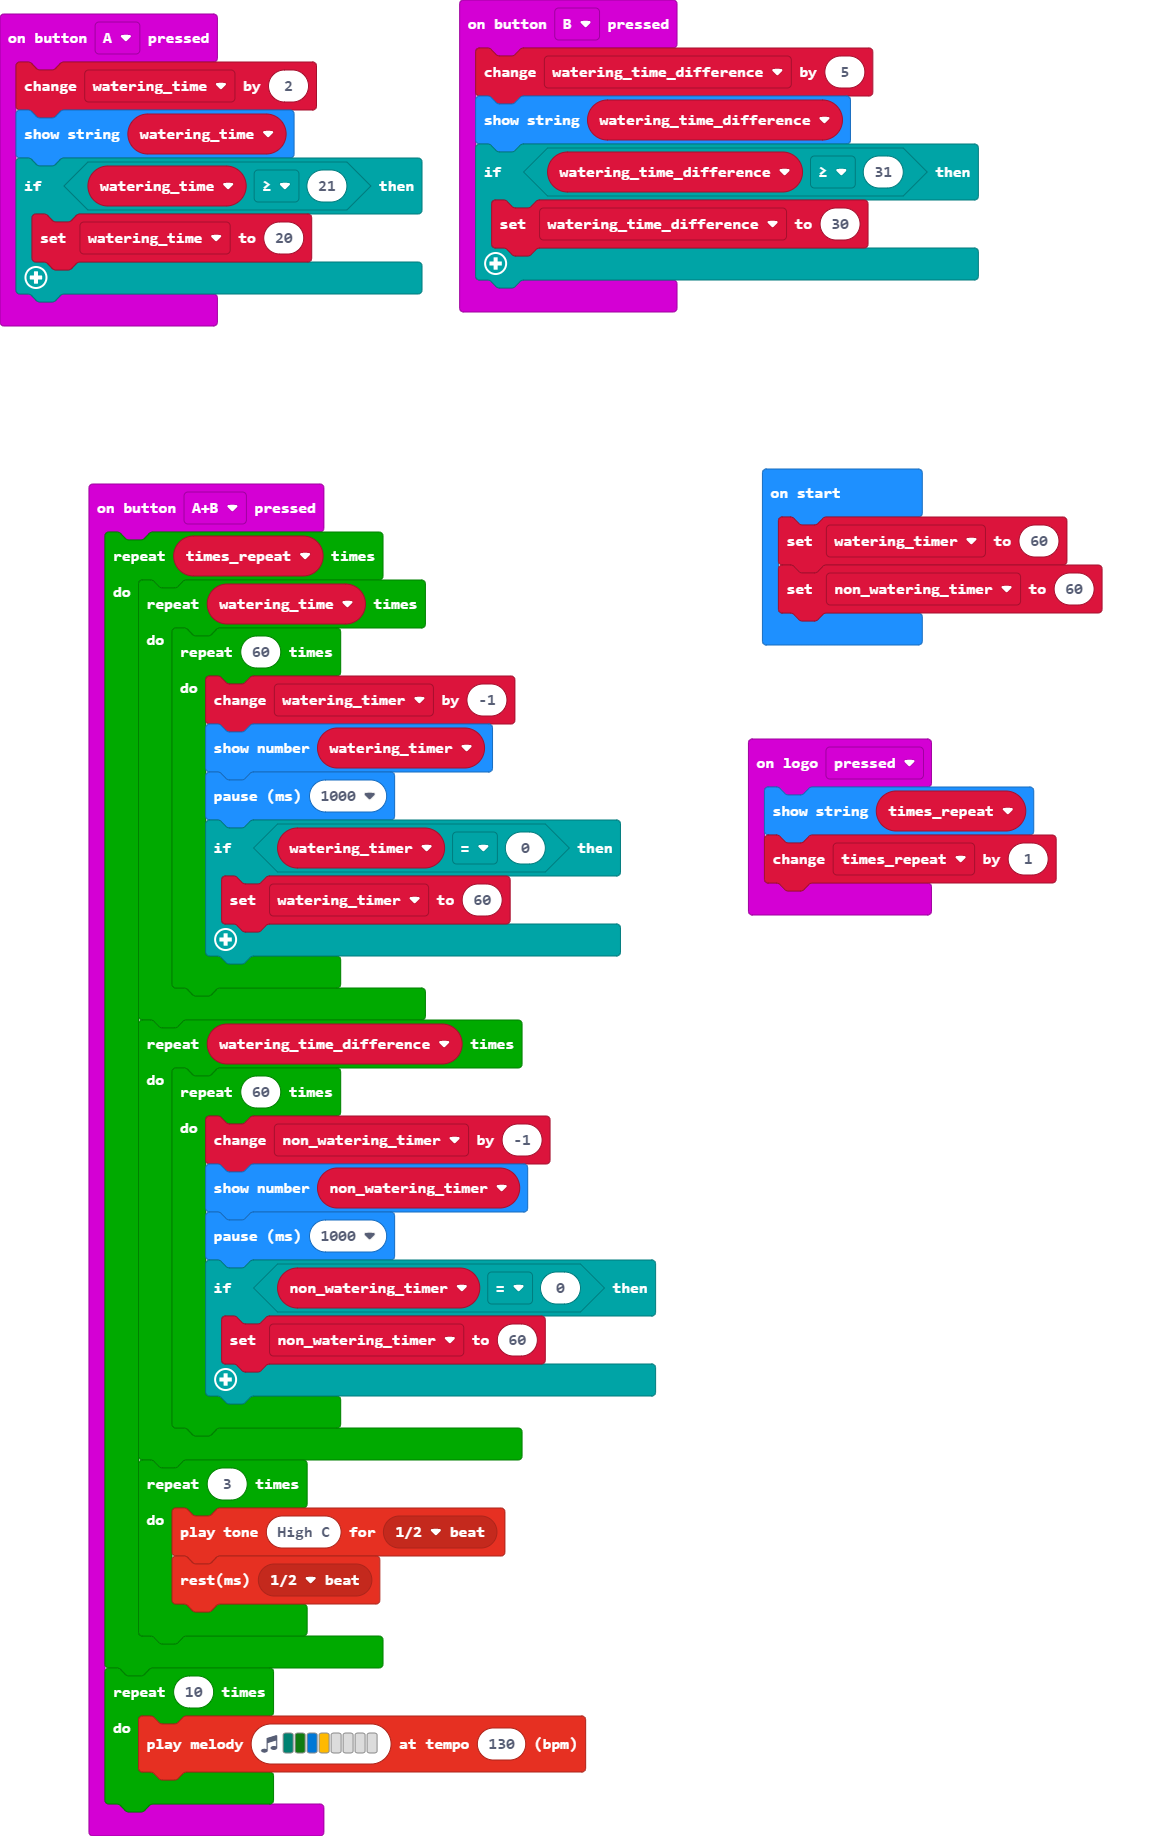
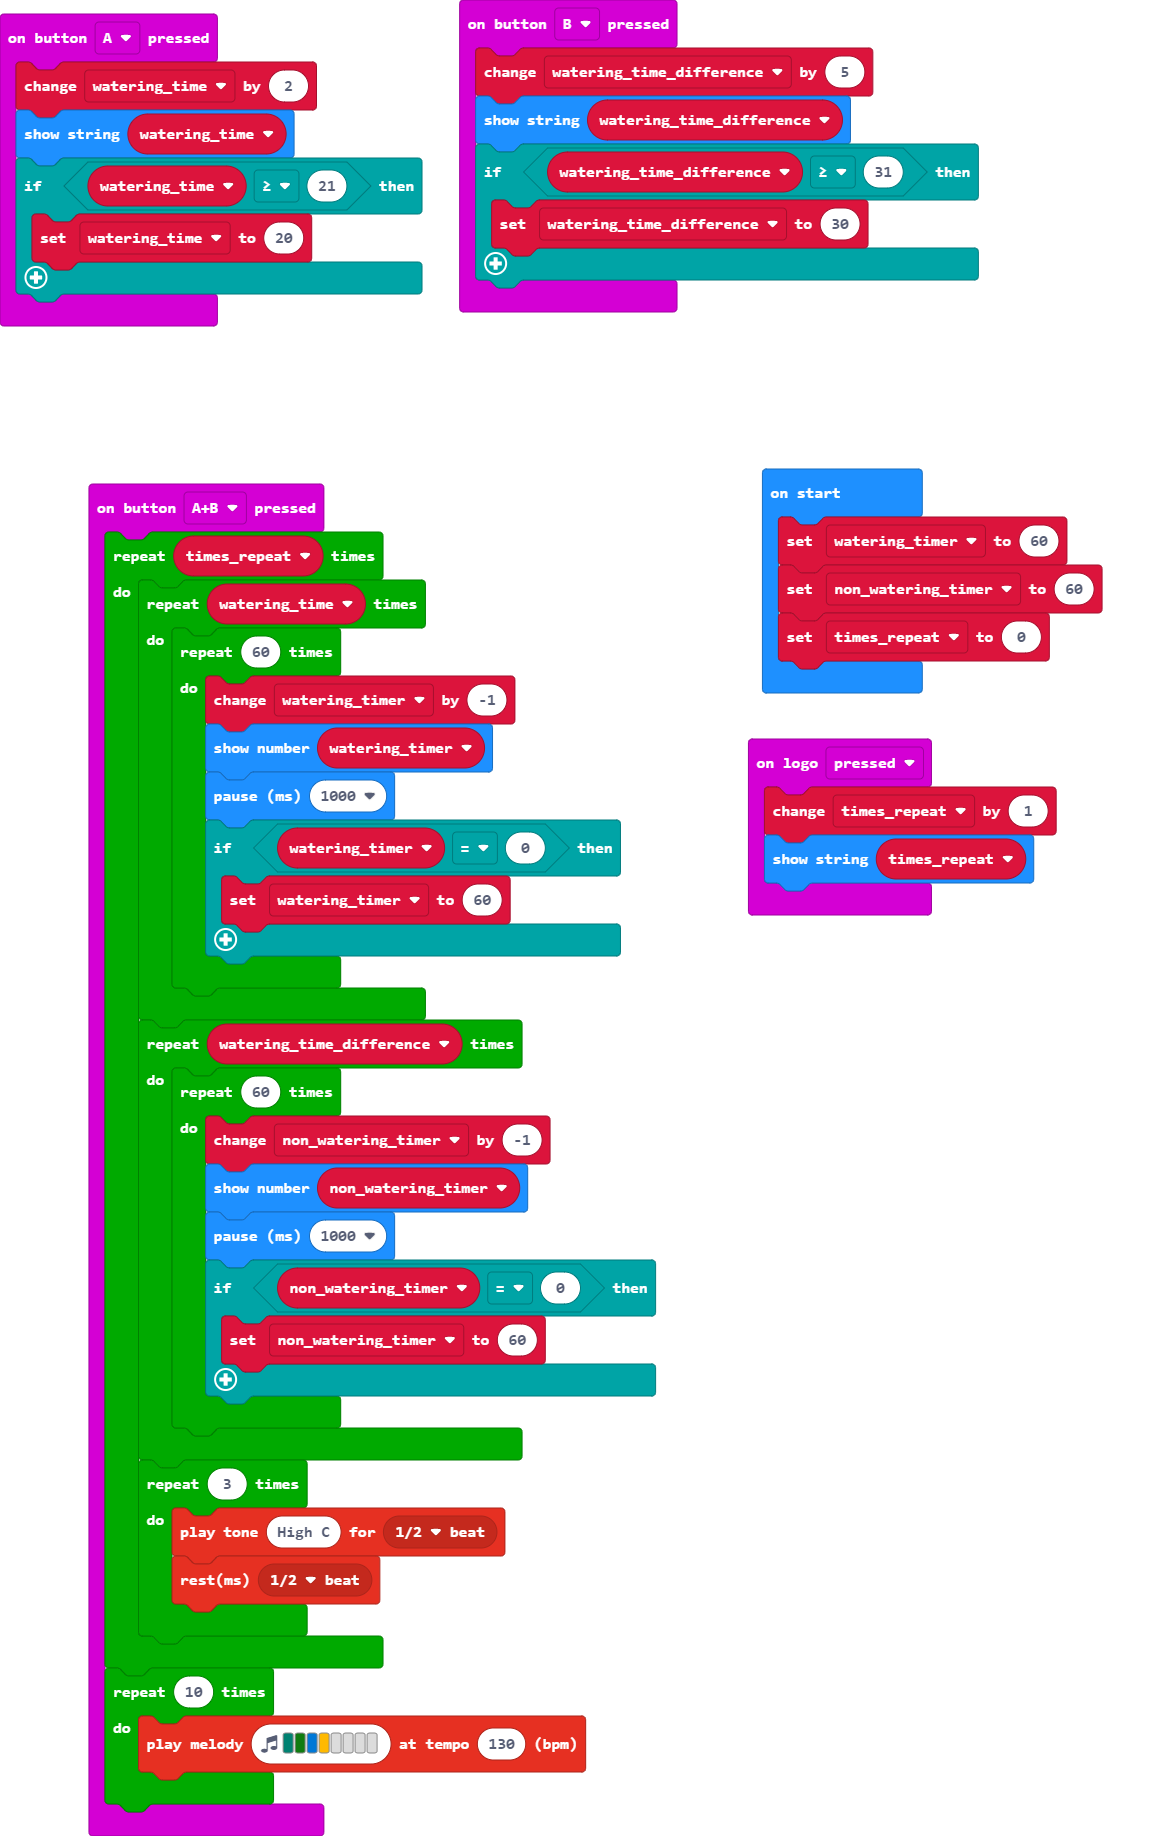
idk

Changed region(s): [[0.6551, 0.3105, 0.9359, 0.4967]]

diff --git a/main.ts b/main.ts
@@ -44,13 +44,14 @@ input.onButtonPressed(Button.B, function () {
     }
 })
 input.onLogoEvent(TouchButtonEvent.Pressed, function () {
-    basic.showString("" + (times_repeat))
     times_repeat += 1
+    basic.showString("" + (times_repeat))
 })
 let watering_time_difference = 0
-let times_repeat = 0
 let watering_time = 0
+let times_repeat = 0
 let non_watering_timer = 0
 let watering_timer = 0
 watering_timer = 60
 non_watering_timer = 60
+times_repeat = 0
